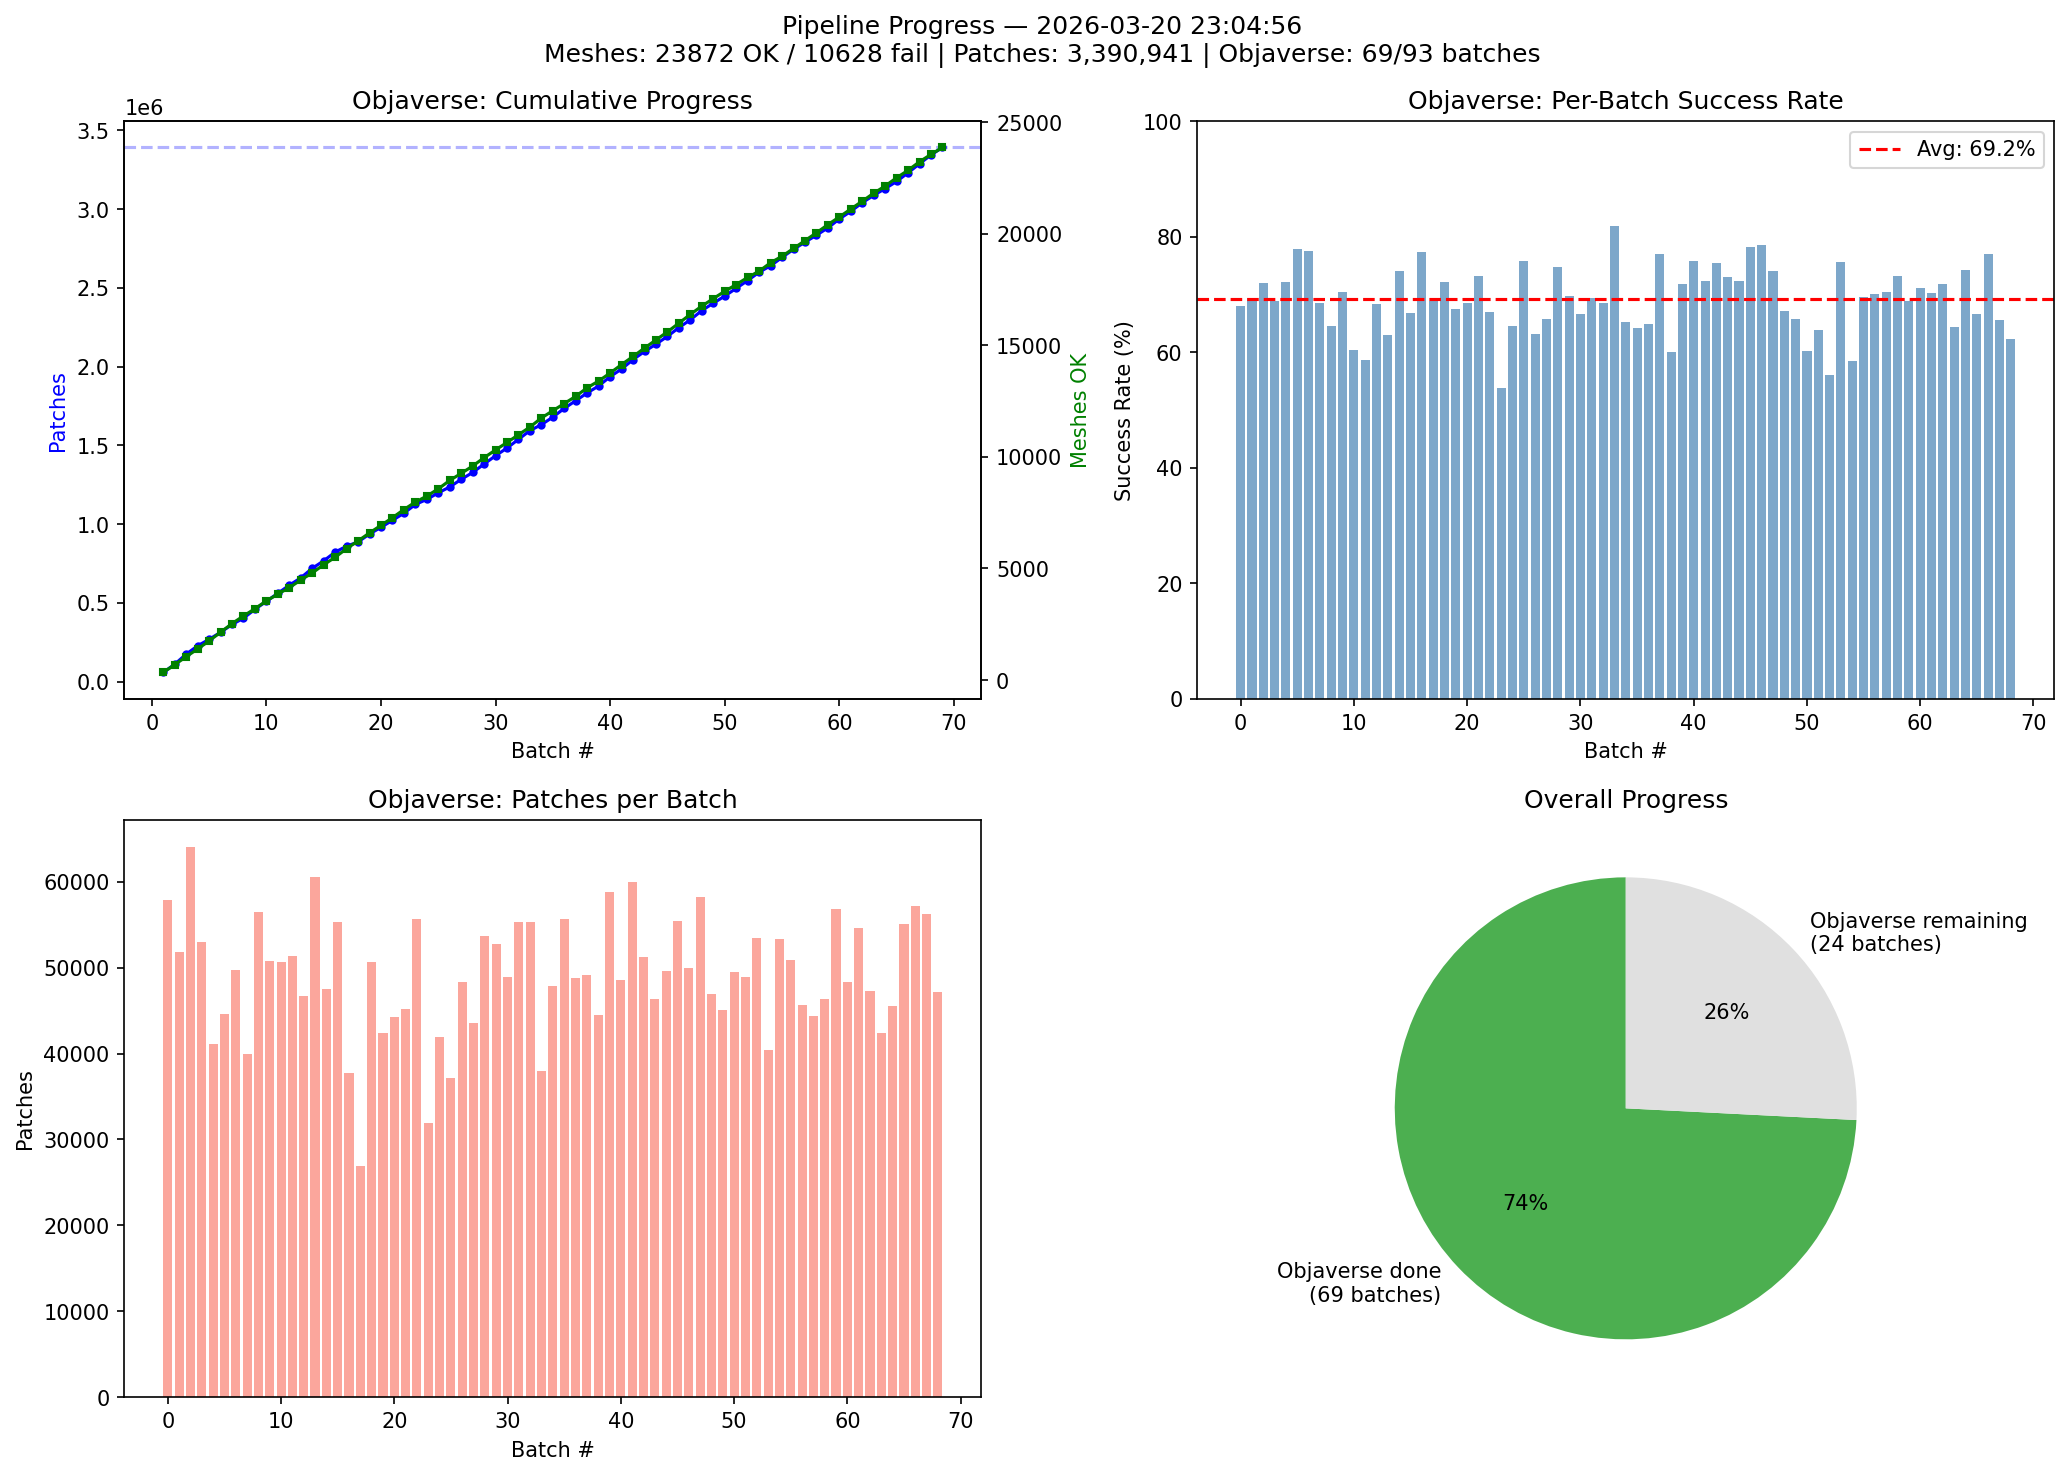
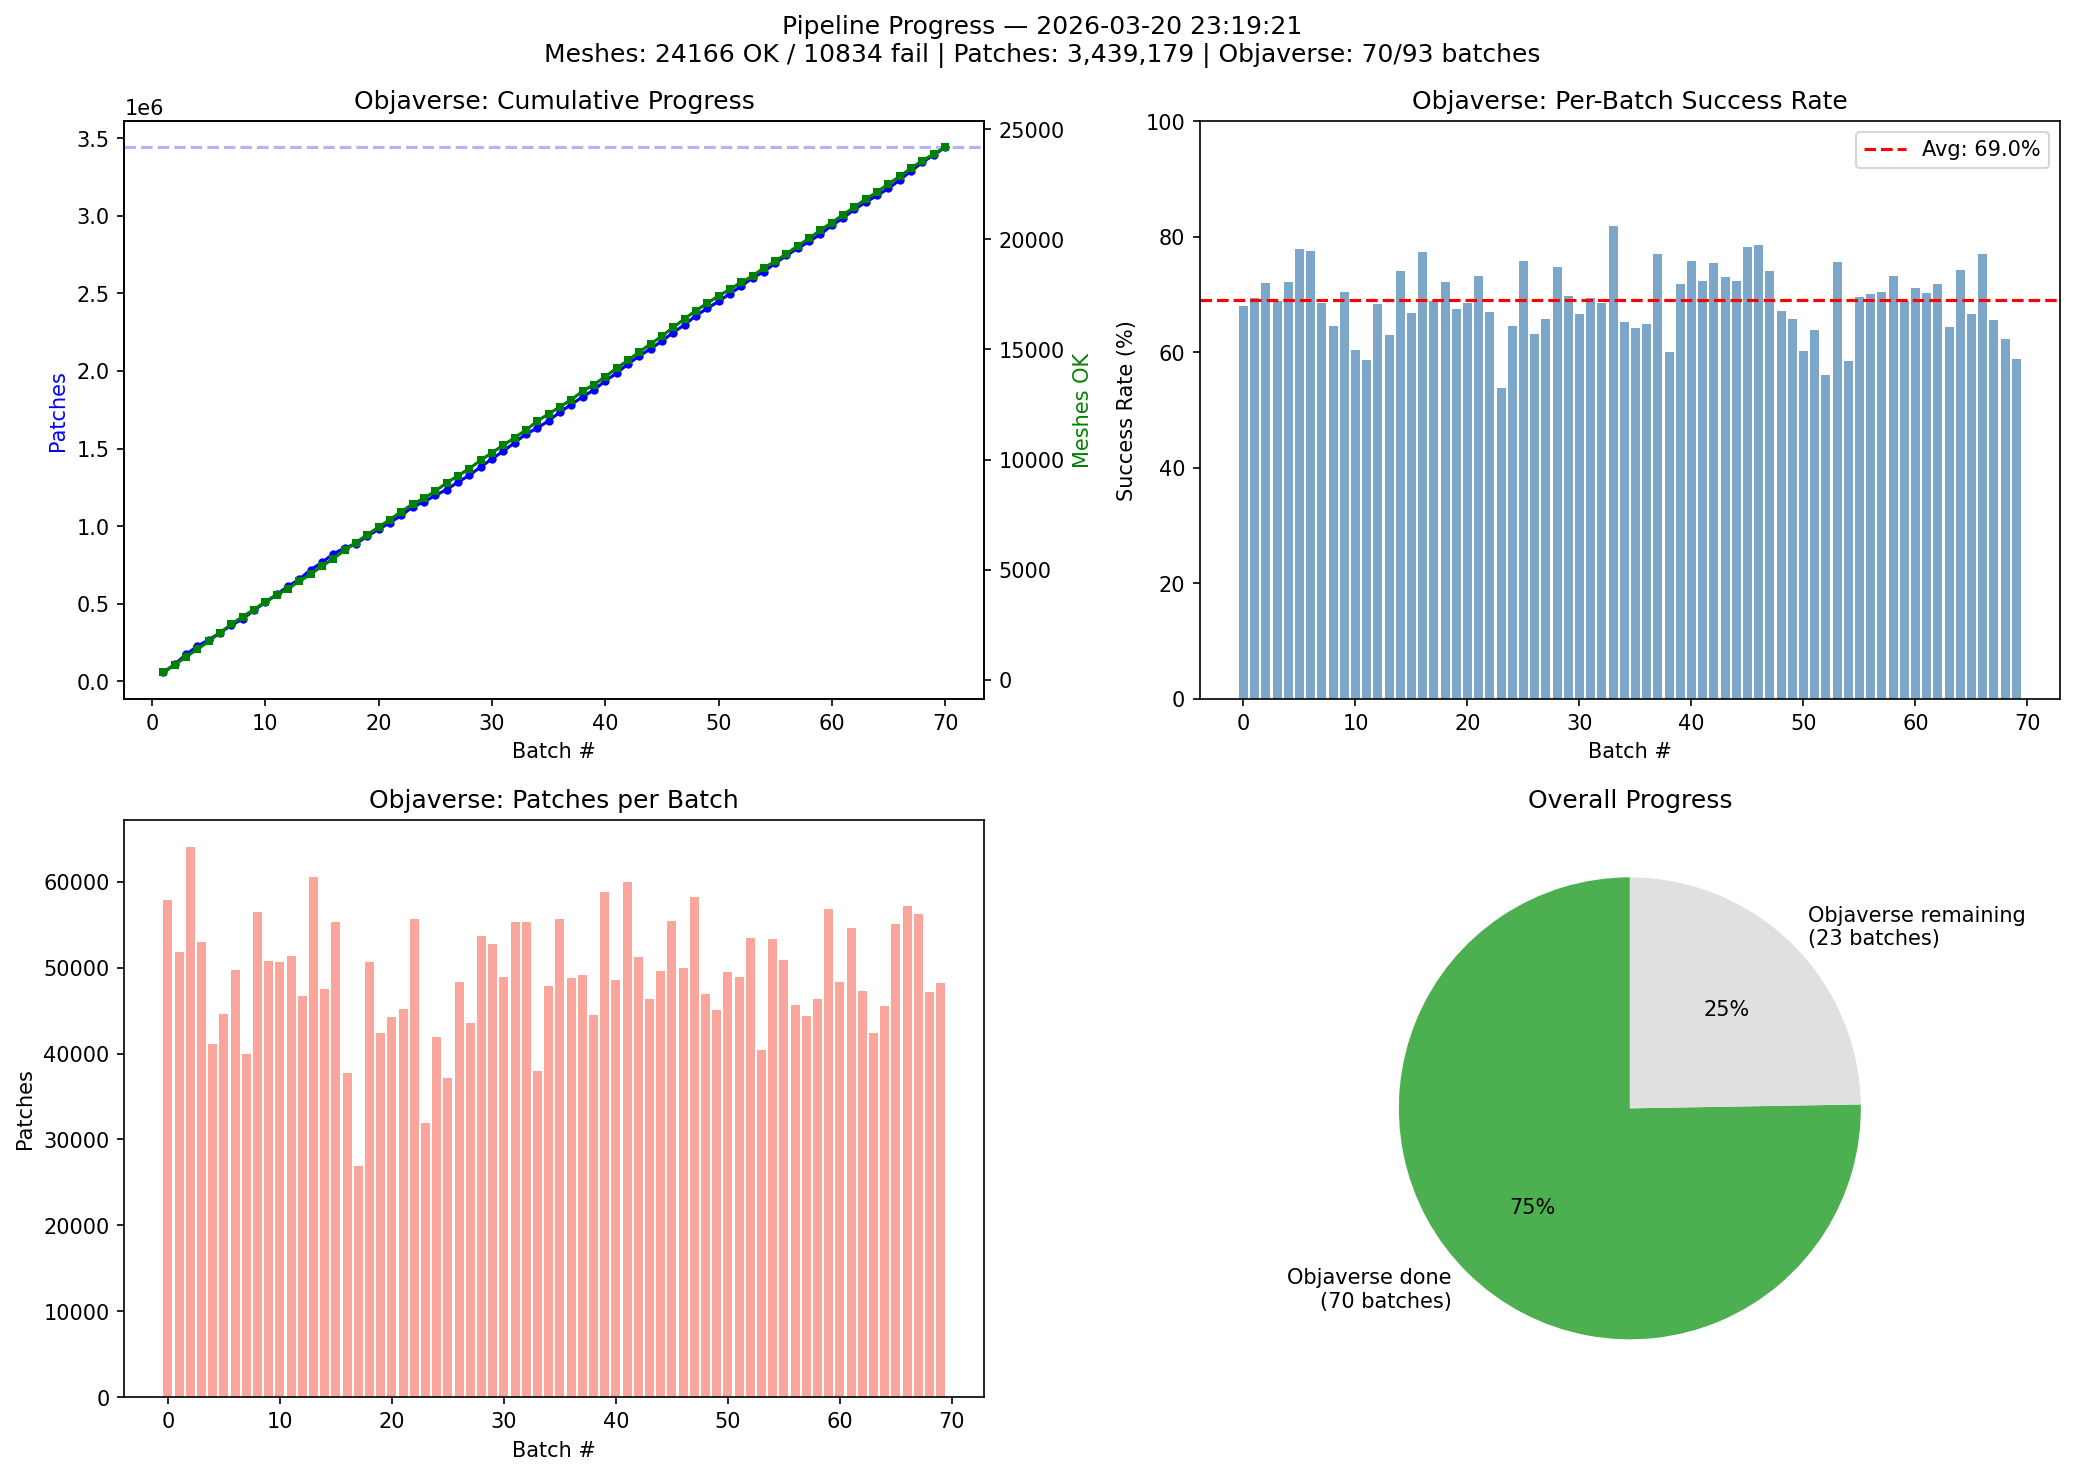
chore: update pipeline monitoring (batch_070 completed)
- Objaverse: 70/93 batches, 24166 OK / 10834 fail
- Patches: 3,439,179

diff --git a/results/dataset-pipeline/REPORT.md b/results/dataset-pipeline/REPORT.md
@@ -1,17 +1,17 @@
 # Dataset Pipeline Progress Report
 
-**Generated:** 2026-03-20 23:04:25
+**Generated:** 2026-03-20 23:19:21
 
 ## Overall
-- Total meshes processed: 23872 OK / 10628 fail
-- Total patches: 3,390,941
+- Total meshes processed: 24166 OK / 10834 fail
+- Total patches: 3,439,179
 
 ## Objaverse-LVIS (Phase 1)
-- Batches: 69 / 93 completed
-- Meshes: 23872 OK / 10628 fail
-- Success rate: 69.2%
-- Patches: 3,390,941
-- Avg patches/mesh: 142.0
+- Batches: 70 / 93 completed
+- Meshes: 24166 OK / 10834 fail
+- Success rate: 69.0%
+- Patches: 3,439,179
+- Avg patches/mesh: 142.3
 
 ## ShapeNet (Phase 2)
 - Batches: 0 completed
